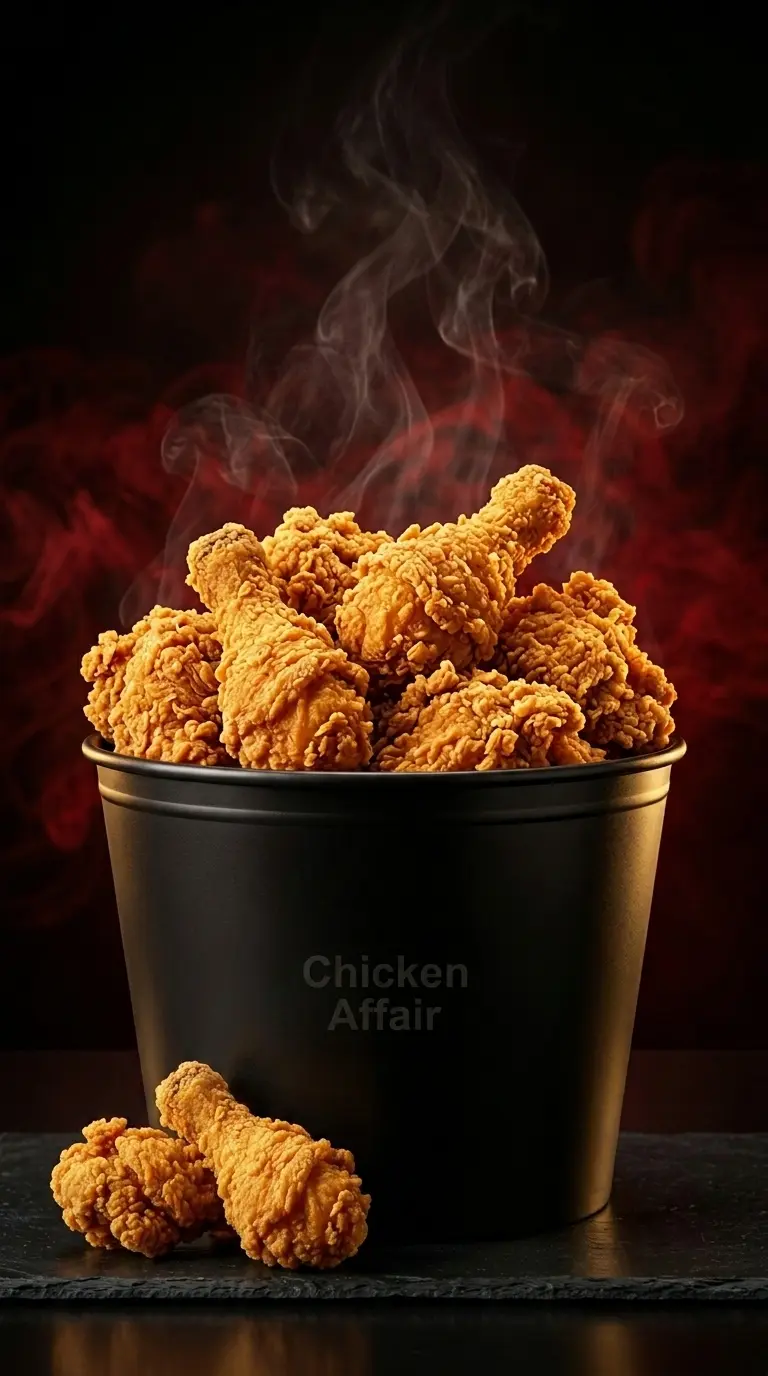
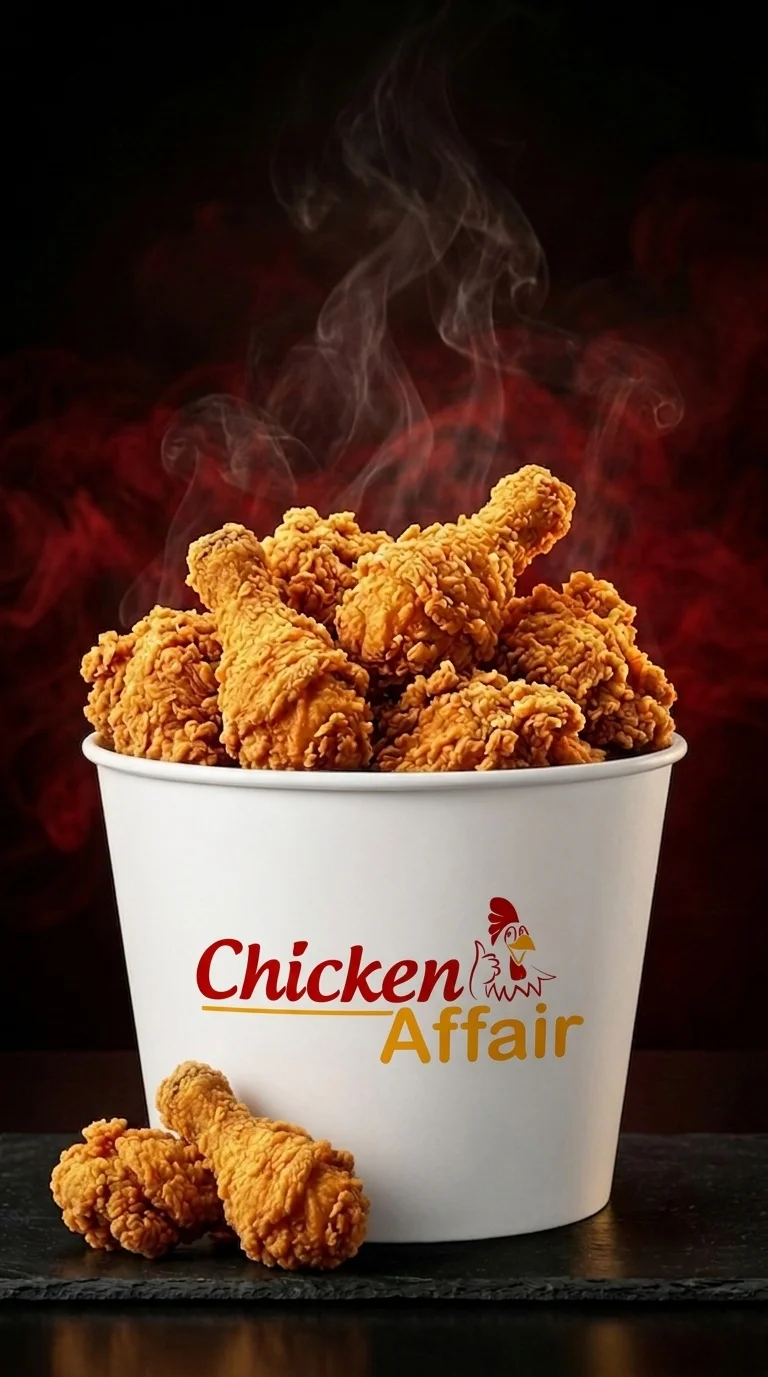
Separated Fries and Fries N Fly categories with menu updates

diff --git a/index.html b/index.html
@@ -23,11 +23,12 @@
 <nav class="tabs">
   <a href="#fried-chicken">🍗 Fried Chicken</a>
   <a href="#burgers">🍔 Burgers</a>
-  <a href="#fries-sides">🍟 Fries & Sides</a>
+  <a href="#fries">🍟 Fries</a>
+  <a href="#fries-n-fly">🍟🍗 Fries N Fly</a>
   <a href="#wraps">🌯 Wraps</a>
   <a href="#pizza">🍕 Pizza</a>
-  <a href="#kheema">🍖 Kheema</a>
-  <a href="#biryani">🍛 Biryani</a>
+  <a href="#kheema">🍗 Kheema</a>
+  <a href="#biryani">🍚 Biryani</a>
   <a href="#beverages">🥤 Beverages</a>
 </nav>
 <section id="fried-chicken" class="menu-section">
@@ -269,18 +270,17 @@
 
 </section>
 
-<section id="fries-sides" class="menu-section">
+<section id="fries" class="menu-section">
 
   <!-- Section Image -->
   <div class="section-image">
-    <img src="images/fries-sides.webp" alt="Chicken Affair Fries & Sides">
+    <img src="images/fries.webp" alt="Chicken Affair Fries">
   </div>
 
-  <h2 class="section-title">🍟 Fries & Sides</h2>
+  <h2 class="section-title">🍟 Fries</h2>
 
-  <!-- Fries -->
   <div class="menu-category">
-    <h3>Fries (M / L)</h3>
+    <h3>Premium Loaded Fries ( M / L )</h3>
 
     <div class="menu-item">
       <span>Classic Crunch</span>
@@ -314,9 +314,19 @@
 
   </div>
 
-  <!-- Fries N Fly -->
+</section>
+
+<section id="fries-n-fly" class="menu-section">
+
+  <!-- Section Image -->
+  <div class="section-image">
+    <img src="images/fries-n-fly.webp" alt="Chicken Affair Fries N Fly">
+  </div>
+
+  <h2 class="section-title">🍟🍗 Fries N Fly</h2>
+
   <div class="menu-category">
-    <h3>Fries N Fly</h3>
+    <h3>Premium Fries N Fly Combos</h3>
 
     <div class="menu-item">
       <span>Classic</span>